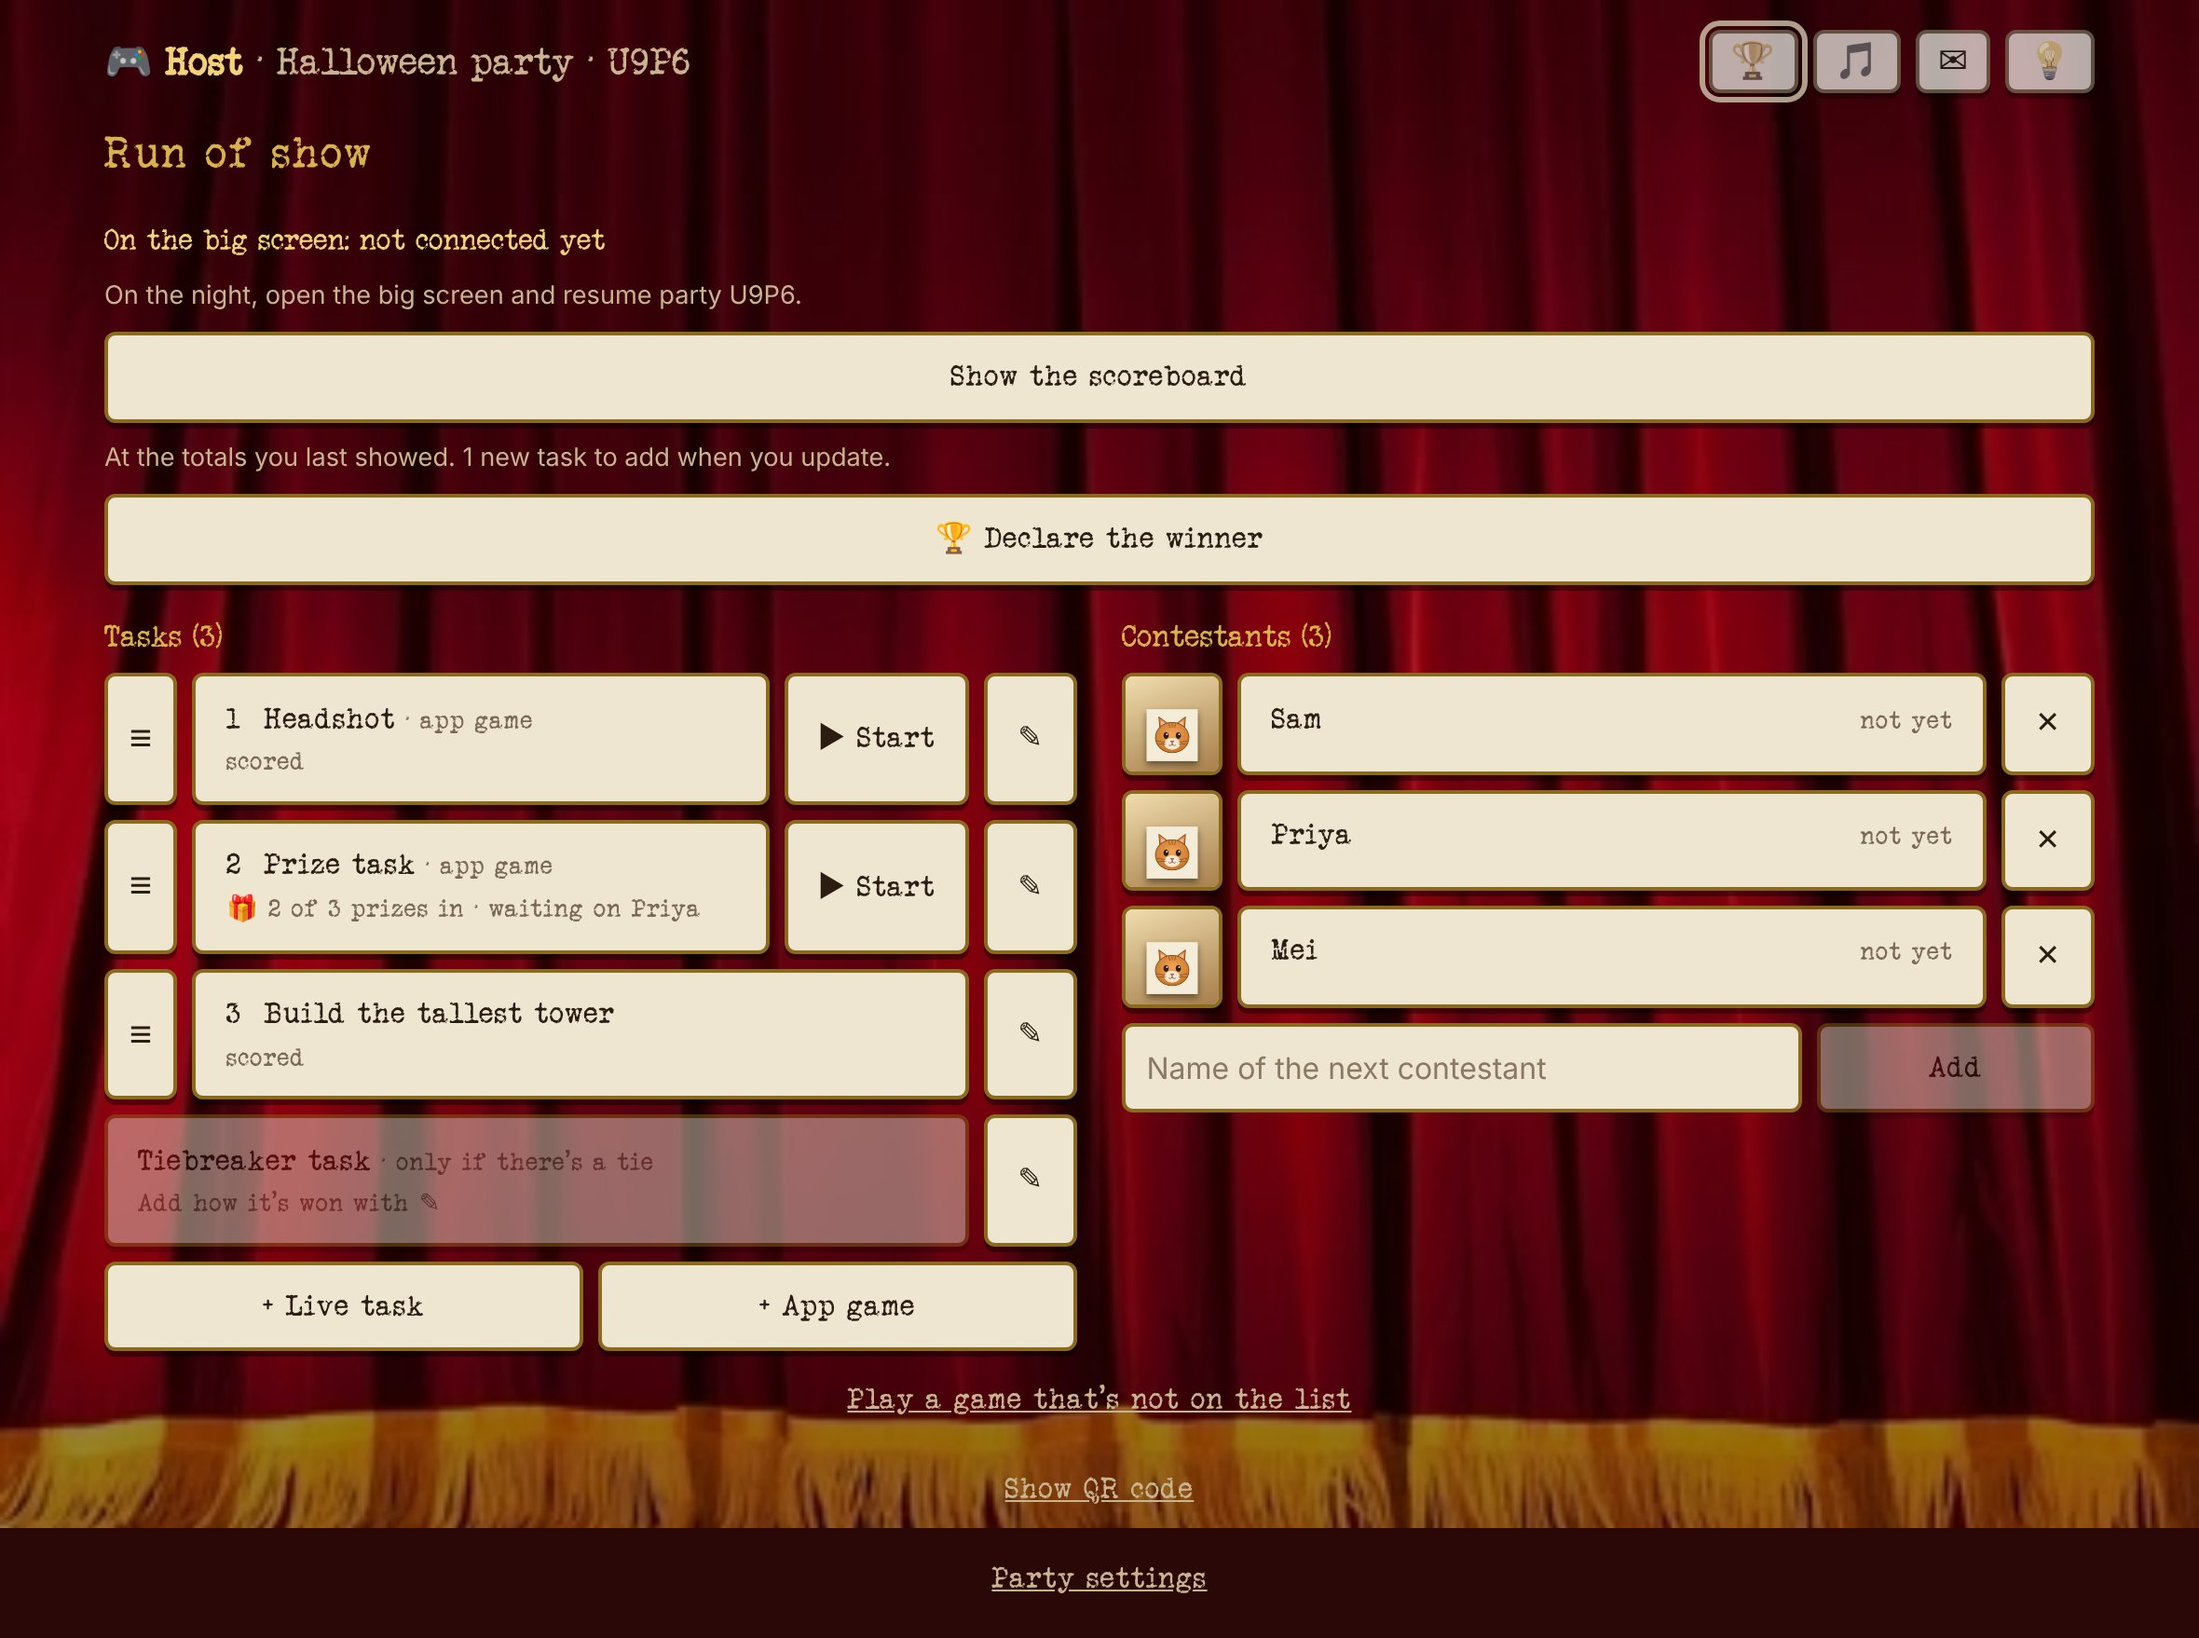
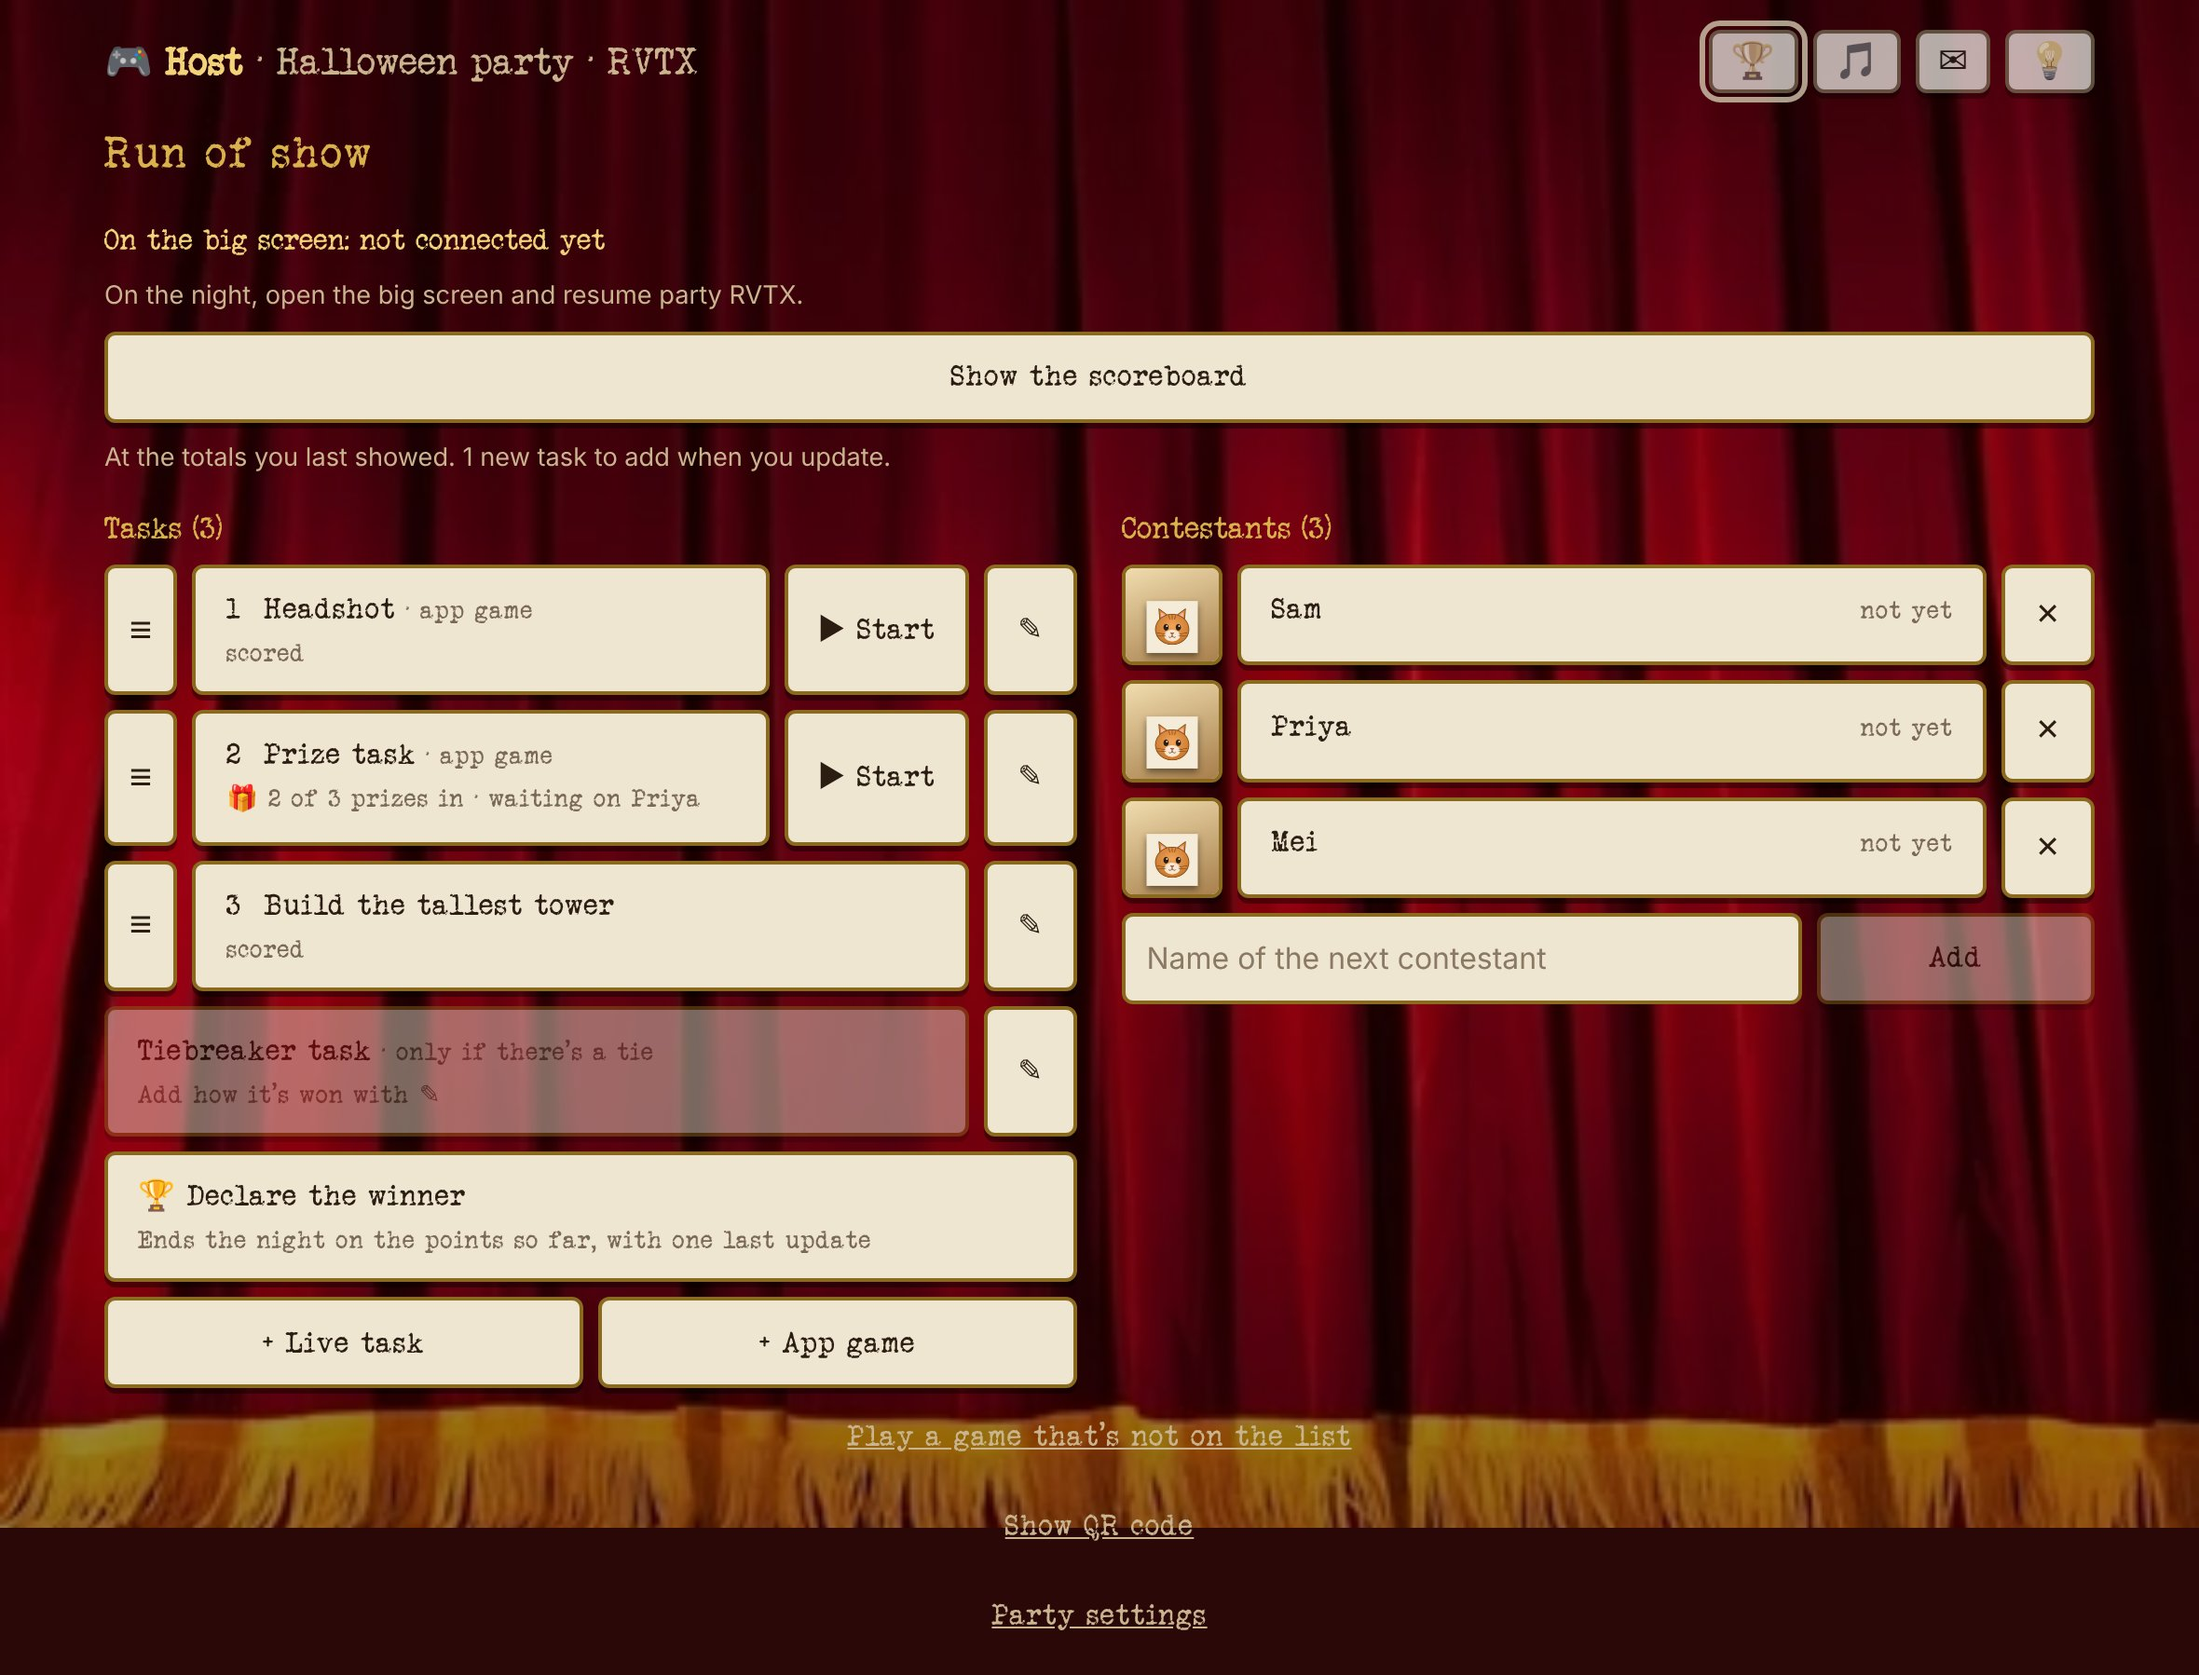
Run of show: Declare the winner moves into the task list, under the Tiebreaker task
Claude-Session: https://claude.ai/code/session_014ghUjXRQwwSCMqfFBR6KAW

diff --git a/src/scoreboard/ScoreboardRemote.tsx b/src/scoreboard/ScoreboardRemote.tsx
@@ -105,7 +105,6 @@ function ShowControls({ code, session, onTiebreak }: { code: string; session: Se
   // The tasks still without points: the haul waits for them, unless the host declares the winner first.
   const unscored = sorted(board?.tasks).filter(([, t]) => !scored(t)).map(([, t]) => titleOf(t));
   const final = !!board?.final;
-  const anyScored = Object.values(board?.tasks ?? {}).some(scored);
   const nameOf = (id: string) => board?.contestants?.[id]?.name ?? "";
   const haulUp = session.display?.step === "haul";
   const line = noBigScreen(session) ? "not connected yet" : up ? "the scoreboard" : haulUp ? "the prize haul"
@@ -151,12 +150,8 @@ function ShowControls({ code, session, onTiebreak }: { code: string; session: Se
         <p className="muted small">
           Declaring the winner with {list(unscored)} unscored. <button className="link" onClick={() => void declareWinner(code, false)}>Not yet</button>
         </p>
-      ) : anyScored && (
-        // The end of the night can come before every task is played: one last update, then the haul.
-        <>
-          {up && !pending && <p className="muted small">The prize haul comes once every task has points. Still none for {list(unscored)}.</p>}
-          <button onClick={() => void declareWinner(code)}>🏆 Declare the winner</button>
-        </>
+      ) : up && !pending && (
+        <p className="muted small">The prize haul comes once every task has points. Still none for {list(unscored)}. Or declare the winner from the task list.</p>
       ))}
     </>
   );
@@ -268,6 +263,8 @@ function TaskList({ code, board, tasks, next, prizeNote, onOpen, onTiebreak, onS
   const [adding, setAdding] = useState<"live" | "game">();
   const [editing, setEditing] = useState<string>();
   const ids = tasks.map(([id]) => id);
+  // Only needed while some tasks are scored and some aren't: with all of them in, the haul comes by itself.
+  const declarable = !board?.final && tasks.some(([, t]) => scored(t)) && tasks.some(([, t]) => !scored(t));
   const [dragging, setDragging] = useState<{ id: string; order: string[] }>();
   const rows = useRef<Record<string, HTMLLIElement | null>>({});
   const order = dragging?.order ?? ids;
@@ -331,6 +328,18 @@ function TaskList({ code, board, tasks, next, prizeNote, onOpen, onTiebreak, onS
             <button className="x" aria-label="Fix the tiebreaker task" onClick={() => setEditing("tiebreaker")}>✎</button>
           </li>
         )}
+        {/* The end of the night can come before every task is played: one last update, then the haul. */}
+        <li>
+          <button className="sb-task sb-declare" disabled={!declarable}
+            onClick={() => { void declareWinner(code); window.scrollTo(0, 0); }}>
+            <span className="sb-task-title">🏆 Declare the winner</span>
+            <span className="muted small sb-task-note">
+              {board?.final ? "Declared on the points so far"
+                : !tasks.some(([, t]) => scored(t)) ? "Once a task has points"
+                : declarable ? "Ends the night on the points so far, with one last update" : "Every task has points"}
+            </span>
+          </button>
+        </li>
       </ul>
       {adding === "live" ? <AddLiveTask code={code} board={board} onClose={() => setAdding(undefined)} />
         : adding === "game" ? (

diff --git a/src/styles.css b/src/styles.css
@@ -1081,7 +1081,7 @@ button.help-q:active { transform: none; box-shadow: none; }
 .sb-task { flex: 1; display: grid; gap: 0.15rem; text-align: left; min-width: 0; }
 .sb-task:disabled { opacity: 1; cursor: default; }
 /* The tiebreaker task is played only on a tie, so until then it looks disabled, as the style guide says (its ✎ still works). */
-.sb-task.sb-tiebreaker:disabled { opacity: 0.45; cursor: not-allowed; }
+.sb-task.sb-tiebreaker:disabled, .sb-task.sb-declare:disabled { opacity: 0.45; cursor: not-allowed; }
 .sb-task-note { white-space: nowrap; overflow: hidden; text-overflow: ellipsis; }
 .sb-task .muted, .sb-contestant-name .muted { color: #7a6a55; }
 .sb-start { flex: none; white-space: nowrap; }

diff --git a/docs/redesign-decisions.md b/docs/redesign-decisions.md
@@ -237,7 +237,7 @@ Each contestant brings a prize; the winner takes the whole haul. Today the Prize
 | Hanging the haul | One by one, like a gallery being hung: the headshot first, then a prize every 0.6s (the usual hang animation), filling from the centre outwards and alternating sides. With reduced motion, everything appears at once. | All at once: one by one builds the moment. |
 | Calling the haul (host) | On the run of show while the scoreboard is up, once every task has points and the last update has been run: gold "🎁 Show the prize haul · Priya" takes the place of gold "Lower the curtain", which becomes a link under it. The winner's name on the button confirms who the room is about to see. With a tie at the top, there's no haul button: the tiebreaker task takes its place (see Tiebreaker task). | A haul button on the prize task's own page: the haul comes at the end of the party, after the scores, not after presenting. Picking a winner among the tied: a tie is played off. |
 | Waiting on points (host) | While a task still has no points, the run of show says why there's no haul button: "The prize haul comes once every task has points. Still none for Prize task." The haul doesn't wait on prizes: with no prize photos (a party from before guests could send them), the haul is the winner's headshot alone. | No line (the first build): Jeffrey scored his tasks, never saw the button, and had nothing to tell him why. Holding the haul until a prize has photos: the night would end with no winner on the big screen. |
-| Declaring the winner (host) | A paper "🏆 Declare the winner" on the run of show whenever some task has points but not all of them do, so the night can end before every task is played. It puts the scoreboard up; if there are points not yet shown, the gold button is "Update the scores" for one last update; then the haul button (or the tiebreaker, on a tie) as at the end of a full night, the winner decided on the points so far. A muted line says "Declaring the winner with Prize task unscored." with a "Not yet" link to take it back. | Waiting for every task (the first build): Jeffrey needed to end a party with tasks unplayed and had no way to call it. Going straight to the haul: the room should see the final scores first. |
+| Declaring the winner (host) | "🏆 Declare the winner" as the last row of the task list, under the Tiebreaker task, enabled whenever some task has points but not all of them do, so the night can end before every task is played. Greyed otherwise, saying why ("Once a task has points", "Every task has points", "Declared on the points so far"). It puts the scoreboard up; if there are points not yet shown, the gold button is "Update the scores" for one last update; then the haul button (or the tiebreaker, on a tie) as at the end of a full night, the winner decided on the points so far. A muted line says "Declaring the winner with Prize task unscored." with a "Not yet" link to take it back. | Waiting for every task (the first build): Jeffrey needed to end a party with tasks unplayed and had no way to call it. Going straight to the haul: the room should see the final scores first. A button under the show controls (the first version): Jeffrey wanted it in the list, under the Tiebreaker task. |
 | The haul up (host) | Gold "Lower the curtain", and a quiet "Back to the scoreboard" link. | |
 | A prize picked (host) | On a wide iPad: the list on the left, and "Priya's prize" on the right with her photos as large previews in her order, ★ on the first. "Tap a photo to put it on the big screen." Then a paper "+ Add photos" and "Lower the curtain" (disabled while nothing is up). No gold until a photo is on the big screen, which then gets the gold ring. Tapping another name switches straight to them. On a phone the two stack. | A separate screen per contestant (Before & After's): jumping from one guest to another would need a trip back to the list. |
 | A photo up | Tapping a preview hangs that photo in the gold frame on the big screen, labelled "prize · Priya", as a headshot hangs. On the remote it gets the gold ring and "on the big screen", the line above the list reads "On the big screen: Priya's prize, photo 2", and "Lower the curtain" wakes up. Tapping another preview (or another guest's) switches straight to it. | Previous / Next on the stage's backup bar: the host picks each photo, so there's no order to step through. |

diff --git a/docs/screens/README.md b/docs/screens/README.md
@@ -87,8 +87,8 @@ Scoreboard (taken on 2026-10-12, from the real components with made-up sessions;
 | `run-of-show-host-haul-up.jpg` | The run of show with the haul on the big screen: gold "Lower the curtain", "Back to the scoreboard" as a link |
 | `run-of-show-host-haul-waiting.jpg` | The run of show with the scoreboard up and a task still without points: "The prize haul comes once every task has points. Still none for Prize task." over gold "Lower the curtain" |
 | `main-prize-haul-winner-only.jpg` | The prize haul when no prize has photos: "Prize Haul" and the winner's headshot alone, "Priya is the winner!" |
-| `run-of-show-host-declare.jpg` | The run of show mid-party with a task still unscored: a paper "🏆 Declare the winner" under "Show the scoreboard" |
-| `run-of-show-host-declare-update.jpg` | After "Declare the winner": the scoreboard is up, gold "Update the scores · 1 new task" for one last update, and "Declaring the winner with Prize task unscored. Not yet" |
+| `run-of-show-host-declare.jpg` | The run of show mid-party with a task still unscored: "🏆 Declare the winner" in the task list, under the Tiebreaker task |
+| `run-of-show-host-declare-update.jpg` | After "Declare the winner": the scoreboard is up, gold "Update the scores · 1 new task" for one last update, and "Declaring the winner with Prize task unscored. Not yet", and the task list's declare row greyed as declared |
 | `run-of-show-host-declare-haul.jpg` | After that last update: gold "🎁 Show the prize haul · Priya", the winner decided on the points so far |
 
 Tiebreaker task (taken on 2026-10-13, from the real components with a made-up party):
